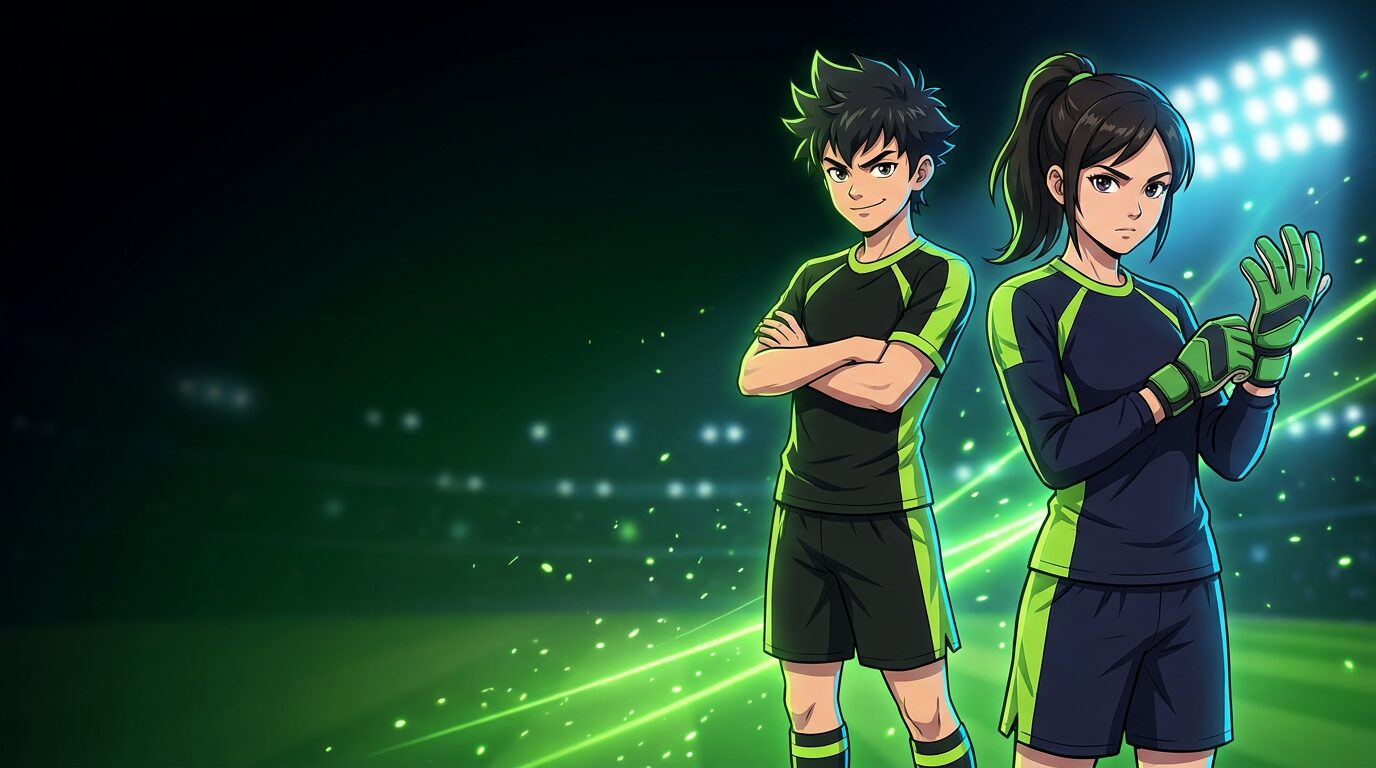
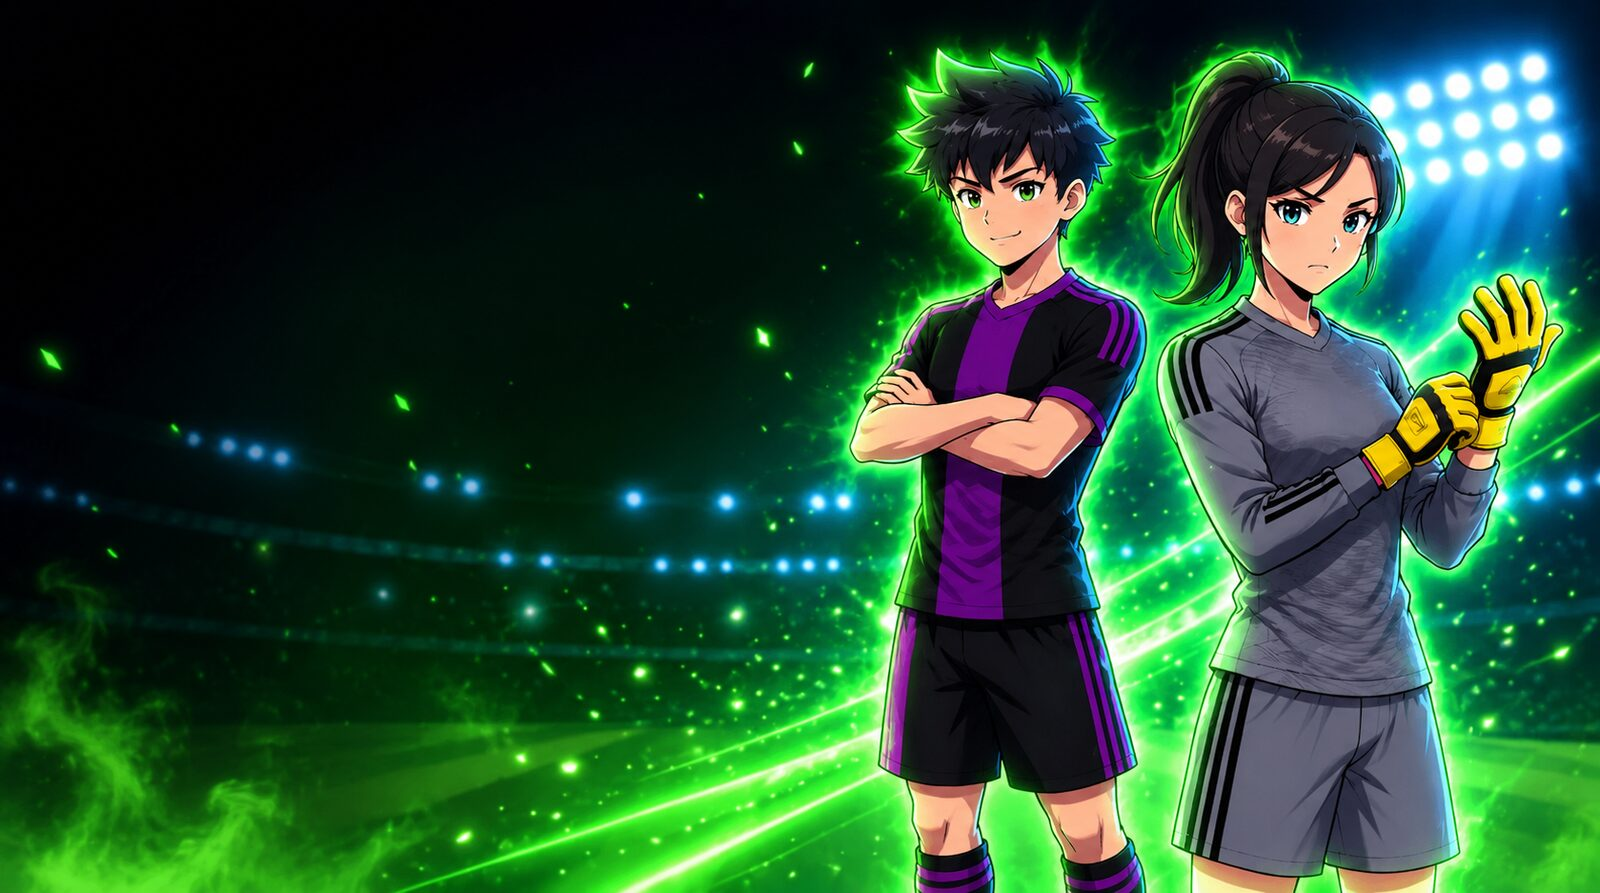
Nowe postacie anime w całej grze: baner, tło, portrety i ilustracje
- baner strony startowej z nowymi postaciami (napastnik w czarno-fioletowym
  stroju, bramkarka w szarym z żółtymi rękawicami)
- ten sam obraz jako przyciemnione tło w grze (komputer i telefon)
- portrety piłkarzy: bramkarka dla bramkarzy, napastnik dla pozostałych;
  duże w profilu, małe w rankingu, na liście rywali i w kadrze klubu
- trening, mecz i klub narysowane od nowa z tymi samymi postaciami
- karty i paski menu półprzezroczyste z rozmyciem tła

Claude-Session: https://claude.ai/code/session_01GYEpxTsvDWtxQfkZgXKaWN

diff --git a/public/app.js b/public/app.js
@@ -145,7 +145,10 @@ window.addEventListener('hashchange', render);
 
 // Strona startowa dla niezalogowanych: baner z postaciami, panel logowania/rejestracji,
 // liczby z gry, liderzy rankingu i opis rozgrywki.
-const IMG = (name) => (window.FS_ASSETS && window.FS_ASSETS[name]) || `img/${name}.jpg`;
+const IMG = (name) => `img/${name}.jpg`;
+// Portret piłkarza: bramkarka dla bramkarzy, napastnik dla pozostałych pozycji.
+const avatar = (p, size = '') =>
+  `<img class="avatar ${size}" src="${IMG(p.position === 'BR' ? 'avatar-gk' : 'avatar-st')}" alt="">`;
 
 async function viewAuth(startMode = 'register') {
   let mode = startMode;
@@ -342,7 +345,7 @@ async function viewHome() {
   const e = liveEnergy(p);
   const dailyReady = now() >= p.dailyReadyAt;
   view.innerHTML = `
-    <h1>${esc(p.name)} <span class="tag">${CFG.positions[p.position]}</span></h1>
+    <div class="hero-head">${avatar(p, 'lg')}<div><h1>${esc(p.name)}</h1><span class="tag">${CFG.positions[p.position]}</span> <span class="tag">Poziom ${p.level}</span></div></div>
     <div class="grid">
       <div class="card">
         <h3>Profil</h3>
@@ -445,7 +448,7 @@ async function viewDuels() {
           <tr><th>Piłkarz</th><th>Poz.</th><th>Ocena</th><th></th></tr>
           ${opponents
             .map(
-              (o) => `<tr><td><span class="dot ${o.online ? 'on' : ''}"></span><a href="#gracz-${o.id}">${esc(o.name)}</a>
+              (o) => `<tr><td class="who">${avatar(o, 'sm')}<span class="dot ${o.online ? 'on' : ''}"></span><a href="#gracz-${o.id}">${esc(o.name)}</a>
                 <span class="tag">${o.position}</span></td><td>${o.level}</td><td>${o.overall}</td>
                 <td><button class="small" data-o="${o.id}">Wyzwij</button></td></tr>`,
             )
@@ -507,7 +510,7 @@ async function viewMatch(id) {
 async function viewPlayer(id) {
   const { player: p, matches } = await api('/players/' + id);
   view.innerHTML = `
-    <h1><span class="dot ${p.online ? 'on' : ''}"></span>${esc(p.name)} <span class="tag">${CFG.positions[p.position]}</span></h1>
+    <div class="hero-head">${avatar(p, 'lg')}<div><h1><span class="dot ${p.online ? 'on' : ''}"></span>${esc(p.name)}</h1><span class="tag">${CFG.positions[p.position]}</span> <span class="tag">Poziom ${p.level}</span></div></div>
     <div class="grid">
       <div class="card">
         <h3>Profil</h3>
@@ -628,7 +631,7 @@ async function viewClub(id) {
           <tr><th>Piłkarz</th><th>Poz.</th><th>Ocena</th>${d.isOwner ? '<th></th>' : ''}</tr>
           ${d.members
             .map(
-              (m) => `<tr><td><span class="dot ${m.online ? 'on' : ''}"></span><a href="#gracz-${m.id}">${esc(m.name)}</a>
+              (m) => `<tr><td class="who">${avatar(m, 'sm')}<span class="dot ${m.online ? 'on' : ''}"></span><a href="#gracz-${m.id}">${esc(m.name)}</a>
                 ${m.id === c.ownerId ? '<span class="tag on">Prezes</span>' : ''} <span class="tag">${m.position}</span></td>
                 <td>${m.level}</td><td>${m.overall}</td>
                 ${d.isOwner ? `<td>${m.id !== p.id ? `<button class="small ghost" data-kick="${m.id}">Usuń</button>` : ''}</td>` : ''}</tr>`,
@@ -713,7 +716,7 @@ async function viewRanking(tab = 'gracze') {
           ? `<tr><th>#</th><th>Piłkarz</th><th>Klub</th><th>Poz.</th><th>Ocena</th><th>W/R/P</th></tr>
              ${data.players
                .map(
-                 (p, i) => `<tr><td>${i + 1}</td><td><a href="#gracz-${p.id}">${esc(p.name)}</a> <span class="tag">${p.position}</span></td>
+                 (p, i) => `<tr><td>${i + 1}</td><td class="who">${avatar(p, 'sm')}<a href="#gracz-${p.id}">${esc(p.name)}</a> <span class="tag">${p.position}</span></td>
                  <td>${p.club ? `[${esc(p.club.tag)}]` : '–'}</td><td>${p.level}</td><td>${p.overall}</td><td>${p.wins}/${p.draws}/${p.losses}</td></tr>`,
                )
                .join('')}`

diff --git a/public/style.css b/public/style.css
@@ -6,6 +6,8 @@
   --text: #eaf5ec;
   --muted: #8fa797;
   --deep: #03140a;
+  --glass: #0e1a13e6;
+  --purple: #8f3fd6;
   --font-display: "Chakra Petch", "Segoe UI", system-ui, sans-serif;
   --font-body: "Inter", system-ui, -apple-system, "Segoe UI", Roboto, sans-serif;
   --accent: #b6f23a;
@@ -42,7 +44,7 @@ main { padding-block: 24px; padding-left: max(24px, env(safe-area-inset-left, 0p
 #app.guest main { margin: 0; max-width: none; padding: 0; }
 
 .grid { display: grid; gap: 16px; grid-template-columns: repeat(auto-fit, minmax(280px, 1fr)); }
-.card { background: var(--panel); border: 1px solid var(--line); border-radius: var(--radius); padding: 18px; }
+.card { background: var(--glass); backdrop-filter: blur(8px); -webkit-backdrop-filter: blur(8px); border: 1px solid var(--line); border-radius: var(--radius); padding: 18px; }
 .muted { color: var(--muted); }
 .row { display: flex; gap: 10px; align-items: center; flex-wrap: wrap; }
 .spread { display: flex; justify-content: space-between; align-items: center; gap: 10px; }
@@ -190,3 +192,17 @@ th { color: var(--muted); font-weight: 500; font-size: 13px; }
   .l-lead { animation-delay: .08s; } .l-auth { animation-delay: .16s; }
 }
 @keyframes rise { from { opacity: .001; transform: translateY(10px); } }
+
+/* ---------- tło gry i portrety ---------- */
+#app:not(.guest) { background: linear-gradient(90deg, var(--bg) 0%, #070d09eb 38%, #070d09a6 68%, #070d0966 100%), url("img/hero.jpg") right bottom / auto calc(100vh - 40px) no-repeat fixed, var(--bg); }
+#app:not(.guest) .nav, #app:not(.guest) .topbar { background: #0e1a13d9; backdrop-filter: blur(10px); -webkit-backdrop-filter: blur(10px); }
+.hero-head { display: flex; align-items: center; gap: 16px; margin-bottom: 18px; }
+.hero-head h1 { margin: 0 0 6px; }
+.avatar { width: 40px; height: 40px; border-radius: 50%; object-fit: cover; border: 2px solid var(--accent); background: var(--panel-2); flex: none; }
+.avatar.lg { width: 84px; height: 84px; border-radius: 18px; box-shadow: 0 0 0 4px #b6f23a22, 0 0 28px #7fe25a55; }
+@media (max-width: 760px) {
+  #app:not(.guest) { background: linear-gradient(180deg, #070d0999 0%, #070d09d9 220px, var(--bg) 420px), url("img/hero.jpg") 70% top / auto 440px no-repeat, var(--bg); }
+  .avatar.lg { width: 68px; height: 68px; }
+}
+.avatar.sm { width: 28px; height: 28px; border-width: 1px; margin-right: 8px; vertical-align: middle; }
+td.who { white-space: nowrap; }
